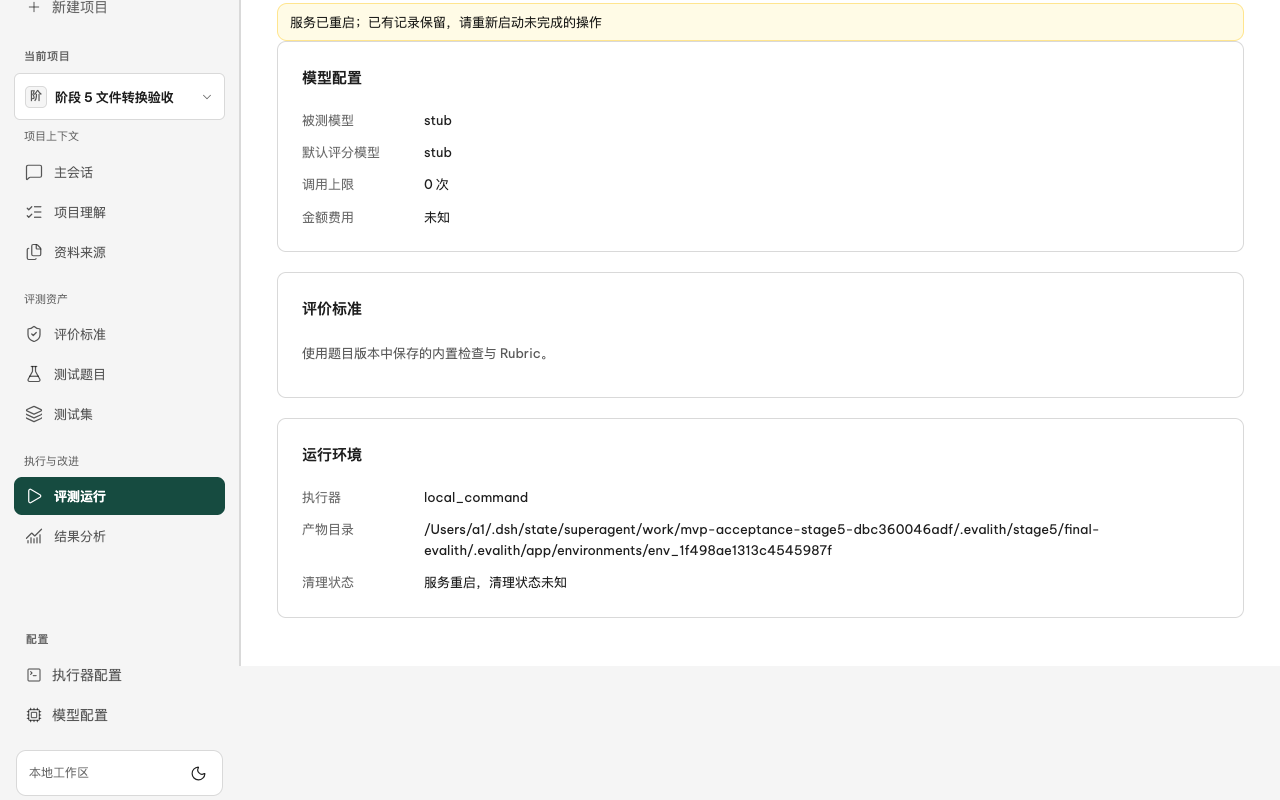
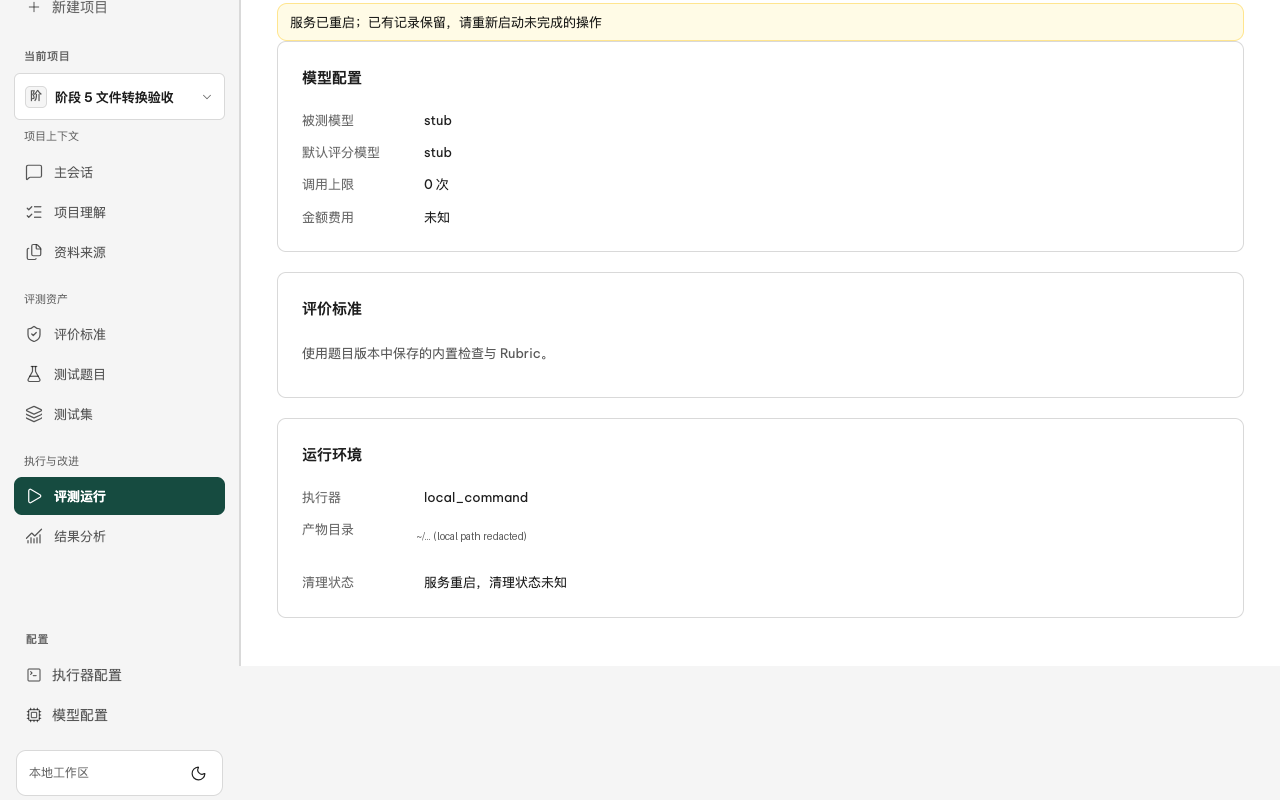
fix: make acceptance output script-owned and close review gaps
The driver used to recursively delete a caller-supplied --out/fixtures
and unlink an existing write-marker. Use fresh mkdtemp fixture directories
and a unique marker name so --out can never delete unrelated data. Fold
the three analysis polling loops into wait_analysis, cover the driver in
the Ruff static gate, scope the interrupted-result regression to the
result row instead of the whole page, and redact local absolute paths from
the published cleanup screenshots.

The overall issue remains blocked: authorized real-model/conversation
execution and a distinct cleanup-failure state are still unverified.

Changed region(s): [[0.3125, 0.6562, 0.8438, 0.7188]]

diff --git a/evalith/web/src/EvaluationRunView.test.tsx b/evalith/web/src/EvaluationRunView.test.tsx
@@ -1,4 +1,4 @@
-import { render, screen } from "@testing-library/react";
+import { render, screen, within } from "@testing-library/react";
 import userEvent from "@testing-library/user-event";
 import { it, expect, vi } from "vitest";
 import { EvaluationRunView } from "./EvaluationRunView";
@@ -117,5 +117,9 @@ it("localizes cleanup state and interrupted cases after a restart", async () => 
   await user.click(screen.getByRole("tab", { name: "运行配置" }));
   expect(await screen.findByText("服务重启，清理状态未知")).toBeVisible();
   await user.click(screen.getByRole("tab", { name: "测试结果" }));
-  expect((await screen.findAllByText("已中断")).length).toBeGreaterThan(0);
+  const resultRow = (await screen.findByRole("button", { name: /Query/ })).closest(
+    ".eval-result-row",
+  );
+  expect(resultRow).not.toBeNull();
+  expect(within(resultRow as HTMLElement).getAllByText("已中断")).toHaveLength(1);
 });

diff --git a/scripts/stage5_acceptance.py b/scripts/stage5_acceptance.py
@@ -31,8 +31,10 @@ import json
 import os
 import shutil
 import sys
+import tempfile
 import threading
 import time
+import uuid
 import urllib.error
 import urllib.request
 from http.server import BaseHTTPRequestHandler, ThreadingHTTPServer
@@ -192,6 +194,18 @@ def wait_run(api: Api, pid: str, run_id: str, timeout: float = 180) -> dict[str,
     raise AcceptanceError(f"run {run_id} did not finish within {timeout}s")
 
 
+def wait_analysis(
+    api: Api, pid: str, analysis_id: str, timeout: float = 30
+) -> dict[str, Any]:
+    deadline = time.monotonic() + timeout
+    while time.monotonic() < deadline:
+        _, analysis = api.get(f"/api/projects/{pid}/analyses/{analysis_id}")
+        if analysis["status"] not in {"running", "pending"}:
+            return analysis
+        time.sleep(0.1)
+    raise AcceptanceError(f"analysis {analysis_id} did not finish within {timeout}s")
+
+
 def result_by_title(run: dict[str, Any], title: str) -> dict[str, Any]:
     for result in run["results"]:
         if result["task"]["definition"]["title"] == title:
@@ -226,9 +240,9 @@ def task_payload(
 
 
 def make_project_fixtures(root: Path, repo: Path) -> dict[str, Path]:
-    fixtures = root / "fixtures"
-    if fixtures.exists():
-        shutil.rmtree(fixtures)
+    # Always use a fresh script-owned directory. Never delete a path that a
+    # previous --out invocation may own: --out is caller-supplied.
+    fixtures = Path(tempfile.mkdtemp(prefix="stage5-fixtures-", dir=root))
     file_project = fixtures / "file-transform"
     file_project.mkdir(parents=True)
     for name in ("README.md", "main.py"):
@@ -1136,9 +1150,7 @@ def phase_boundaries(
 
     # Command sandbox: writes outside the per-case directory and non-loopback
     # network are denied by the macOS profile.
-    outside = work / "outside-write-marker"
-    if outside.exists():
-        outside.unlink()
+    outside = work / f"outside-write-marker-{uuid.uuid4().hex}"
     write_exec = create_executor(
         api,
         results,
@@ -1437,13 +1449,7 @@ def phase_analysis(api: Api, results: Results, state: State) -> None:
         expected=(202,),
         name="analysis-zero-budget",
     )
-    deadline = time.monotonic() + 30
-    while time.monotonic() < deadline:
-        _, current = api.get(f"/api/projects/{pid}/analyses/{analysis['id']}")
-        if current["status"] not in {"running", "pending"}:
-            break
-        time.sleep(0.1)
-    _, current = api.get(f"/api/projects/{pid}/analyses/{analysis['id']}")
+    current = wait_analysis(api, pid, analysis["id"])
     results.expect(
         "分析预算为零时保持预算独立且停止",
         current["status"] == "budget_stopped" and current["usage"]["model_calls"] == 0,
@@ -1461,13 +1467,7 @@ def phase_analysis(api: Api, results: Results, state: State) -> None:
         expected=(202,),
         name="analysis-low-scope",
     )
-    deadline = time.monotonic() + 30
-    while time.monotonic() < deadline:
-        _, current = api.get(f"/api/projects/{pid}/analyses/{low['id']}")
-        if current["status"] not in {"running", "pending"}:
-            break
-        time.sleep(0.1)
-    _, current = api.get(f"/api/projects/{pid}/analyses/{low['id']}")
+    current = wait_analysis(api, pid, low["id"])
     results.expect(
         "低分范围不把缺失分数当作零分",
         current["status"] == "budget_stopped"
@@ -1485,15 +1485,7 @@ def phase_analysis(api: Api, results: Results, state: State) -> None:
         expected=(202,),
         name="analysis-stub-rejected",
     )
-    deadline = time.monotonic() + 30
-    while time.monotonic() < deadline:
-        _, current = api.get(
-            f"/api/projects/{pid}/analyses/{model_required['id']}"
-        )
-        if current["status"] not in {"running", "pending"}:
-            break
-        time.sleep(0.1)
-    _, current = api.get(f"/api/projects/{pid}/analyses/{model_required['id']}")
+    current = wait_analysis(api, pid, model_required["id"])
     results.expect(
         "真实分析需要真实模型，离线演示显式失败",
         current["status"] == "failed"

diff --git a/docs/stage5/2026-11-20-阶段5-MVP验收.md b/docs/stage5/2026-11-20-阶段5-MVP验收.md
@@ -127,6 +127,7 @@
 
 - **桌面深浅色**：任务列表、运行列表、运行详情、证据抽屉在浅色与深色下均实际检查；截图见 [05-tasks-light.png](evidence/screenshots/05-tasks-light.png)、[06-tasks-dark.png](evidence/screenshots/06-tasks-dark.png)、[08-run-evidence-light.png](evidence/screenshots/08-run-evidence-light.png)、[09-run-evidence-dark.png](evidence/screenshots/09-run-evidence-dark.png)。
 - **窄屏**：1024×768 与 390×844 实际截图；390px 原布局标题/说明/操作/计数互相挤压，已用窄屏堆叠修复，修复前后对比见 [before/mobile-header.png](evidence/screenshots/before/mobile-header.png) / [after/mobile-header.png](evidence/screenshots/after/mobile-header.png)，1024 见 [15-tasks-1024.png](evidence/screenshots/15-tasks-1024.png)。
+- **证据脱敏**：发布截图中的本机绝对路径已遮蔽为 `~/... (local path redacted)`，保留状态与标签。
 - **状态**：空（无分析）、错误（离线模型拒绝）、中断（重启）、加载（工作区加载）均有实际界面；中断运行修复前后见 [before/cleanup-raw.png](evidence/screenshots/before/cleanup-raw.png) / [after/cleanup-localized.png](evidence/screenshots/after/cleanup-localized.png) 与 [before/interrupted-running.png](evidence/screenshots/before/interrupted-running.png) / [after/interrupted-running.png](evidence/screenshots/after/interrupted-running.png)。
 - **键盘**：在任务页从搜索框连续 Tab 到分类、全选、行选择、行按钮；在行按钮按 Enter 打开题目详情，按 Escape 关闭，焦点回到触发控件。
 - **自动化可访问性**：agent-browser 内置 axe-core（WCAG 2A/2AA）对首页、模型页、任务页（桌面/移动）、运行列表、运行详情、运行配置、结果分析页共 11 次审计，**0 violations、0 incomplete**；汇总见 [a11y.json](evidence/a11y.json)。
@@ -166,7 +167,7 @@ npm --prefix evalith/web test
 npm --prefix evalith/web run build
 
 # 后端静态门禁
-cd evalith && uv run ruff check src/evalith
+cd evalith && uv run ruff check src/evalith ../scripts/stage5_acceptance.py
 
 # 确定性端到端验收（需要已启动的服务与全新数据目录）
 UV_CACHE_DIR="$PWD/.evalith/cache/uv" uv run --project evalith \
@@ -184,7 +185,7 @@ python scripts/stage5_acceptance.py … --phase restart-verify
 
 - 后端：**297 passed**，唯一警告为第三方 Starlette/httpx 弃用；回执见 [test-backend.txt](evidence/test-backend.txt)。
 - 前端：**57 passed**；一次与其他全量套件并发时出现 1 个未保留用例名的失败，随后发现新增重启回归存在“先断言后渲染”的竞态并改为等待，独立连续 3 次全量通过（57/57）；回执见 [test-frontend.txt](evidence/test-frontend.txt)。
-- TypeScript `tsc --noEmit` 与 Vite 生产构建通过；后端静态门禁 `uv run ruff check src/evalith`（配置为 E4/E7/E9/F）**All checks passed**，并新增 GitHub Actions `static` job 在最终 head 上执行同一命令；回执见 [static-checks.txt](evidence/static-checks.txt)。
+- TypeScript `tsc --noEmit` 与 Vite 生产构建通过；后端静态门禁 `uv run ruff check src/evalith ../scripts/stage5_acceptance.py`（配置为 E4/E7/E9/F）**All checks passed**，并新增 GitHub Actions `static` job 在最终 head 上执行同一命令；回执见 [static-checks.txt](evidence/static-checks.txt)。
 - CI 以 PR head 的 GitHub Actions 结果为准。
 
 评审修复（第一轮复审）：验收脚本不再把未验证的对话/真实模型路径计为通过，改为 `blocked.jsonl` 的独立阻塞记录；重启恢复断言现在核对实际会话 ID 与消息，而不只看项目 ID；新增 `validating` 与 `pending` 的服务重启恢复回归。
@@ -192,6 +193,8 @@ python scripts/stage5_acceptance.py … --phase restart-verify
 评审修复（第二轮复审）：运行冻结断言逐题比对创建时的 `version_id` 与完整 `definition`；题目编辑后比对旧运行的完整 task、状态、分数与检查；重启前保存完整会话消息序列、混合运行的全部结果和未完成结果，重启后精确比对，未完成结果只允许 `status`/`error` 变化。证据中记录逐项匹配布尔值及消息/结果集摘要，便于核对而不暴露内容。
 
 评审修复（第三轮复审）：新增可执行的 Ruff 静态门禁与 GitHub Actions `static` job，修复生产代码中的 3 个既存 lint 问题（两个 lambda 赋值、一个未使用变量）；修正 NOTICE 的 Emotion 表述为 Ant Design 的传递依赖；并明确本 issue 整体仍为阻塞状态，不以确定性范围通过替代真实模型、对话执行与清理失败状态的验收。验收回执在 `9102623` 生成；其后只有行为等价的 lint 修复、静态门禁与文档修正，最终 CI 在 PR head 重跑后端、前端与静态检查。
+
+评审修复（第四轮复审）：验收脚本不再递归删除调用方 `--out/fixtures`，也不 `unlink` 既有文件；fixture 与越界写入标记均使用脚本自有的唯一目录/文件名。静态门禁同时覆盖 `scripts/stage5_acceptance.py`；前端“已中断”回归断言收紧到结果行；已发布截图中的本机绝对路径遮蔽为 `~/... (local path redacted)`；三处分析轮询合并为 `wait_analysis`。
 
 ## 10. 最终结论
 

diff --git a/evalith/README.md b/evalith/README.md
@@ -59,7 +59,7 @@
 UV_CACHE_DIR="$PWD/.evalith/cache/uv" uv run --project evalith pytest -c evalith/pyproject.toml evalith/tests --basetemp .evalith/tmp/pytest
 npm --prefix evalith/web test
 npm --prefix evalith/web run build
-cd evalith && uv run ruff check src/evalith
+cd evalith && uv run ruff check src/evalith ../scripts/stage5_acceptance.py
 ```
 
 [真实 aigateway 与文件执行验证](../docs/validation/2026-11-12-real-evaluation.md)。原有 EE-free Rhesis 实验工作台保留在 `workbench/`，与此服务独立。
